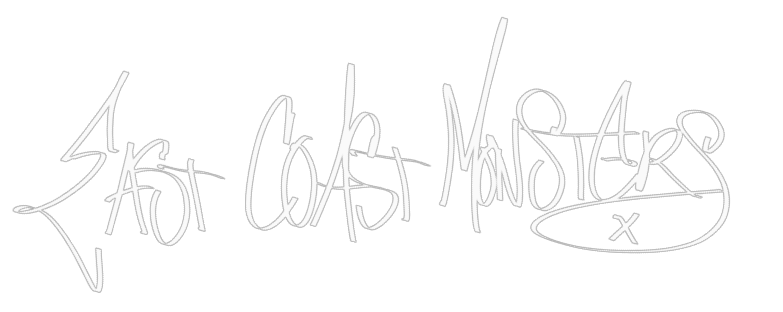
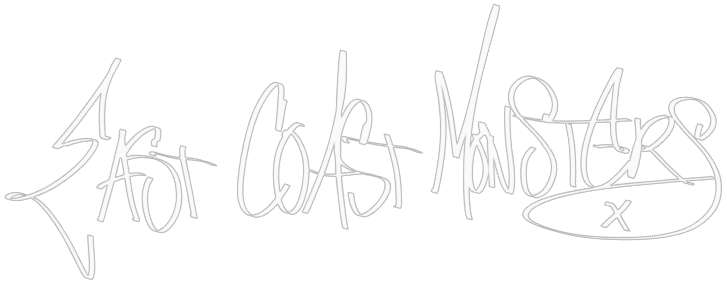
fix2: shrunk header ecm image

diff --git a/index.html b/index.html
@@ -75,19 +75,7 @@
         margin-right: auto;
         margin-top: 15%;
         height: auto;
-        max-width: 175px;
-    }
-
-    #eastcoastmonsters {
-        font-family: 'OldeEnglish';
-        font-size: 50px;
-        font-weight: lighter;
-        color: blanchedalmond;
-        text-align: center;
-        padding-top: 20px;
-        padding-bottom: 10px;
-    } #monsters {
-        font-size: 75px;
+        width: 175px;
     }
 
     .signature {
@@ -96,7 +84,7 @@
         margin-right: auto;
         padding: 25px;
         height: auto;
-        max-width: 500px;
+        width: 350px;
     }
 
     .links {
